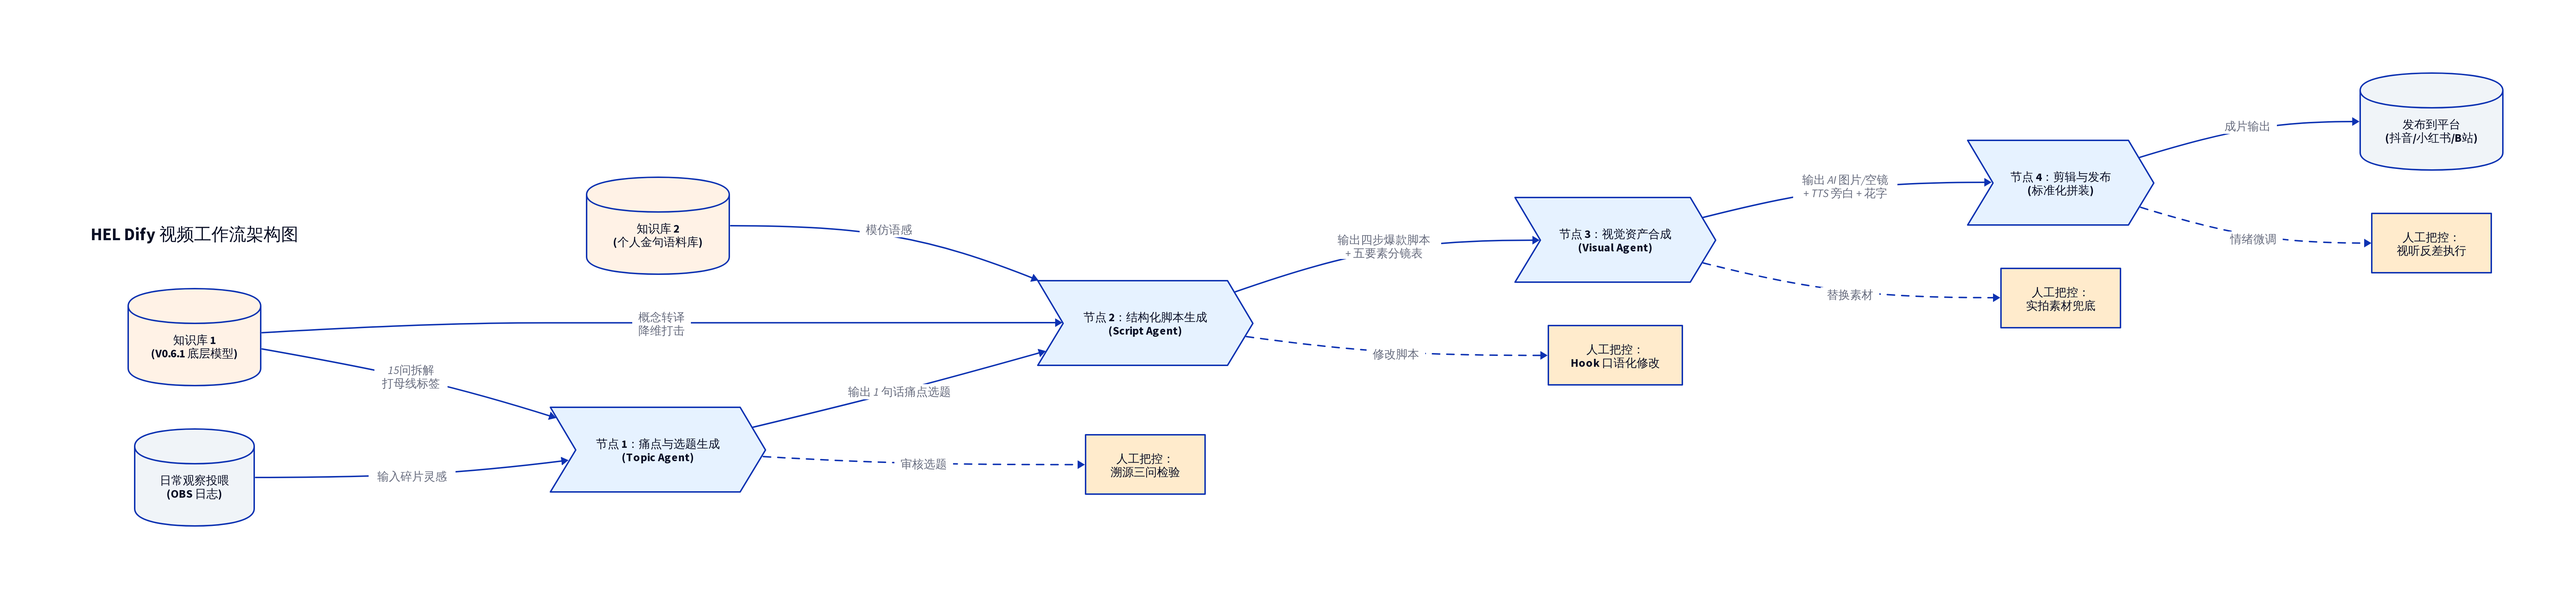
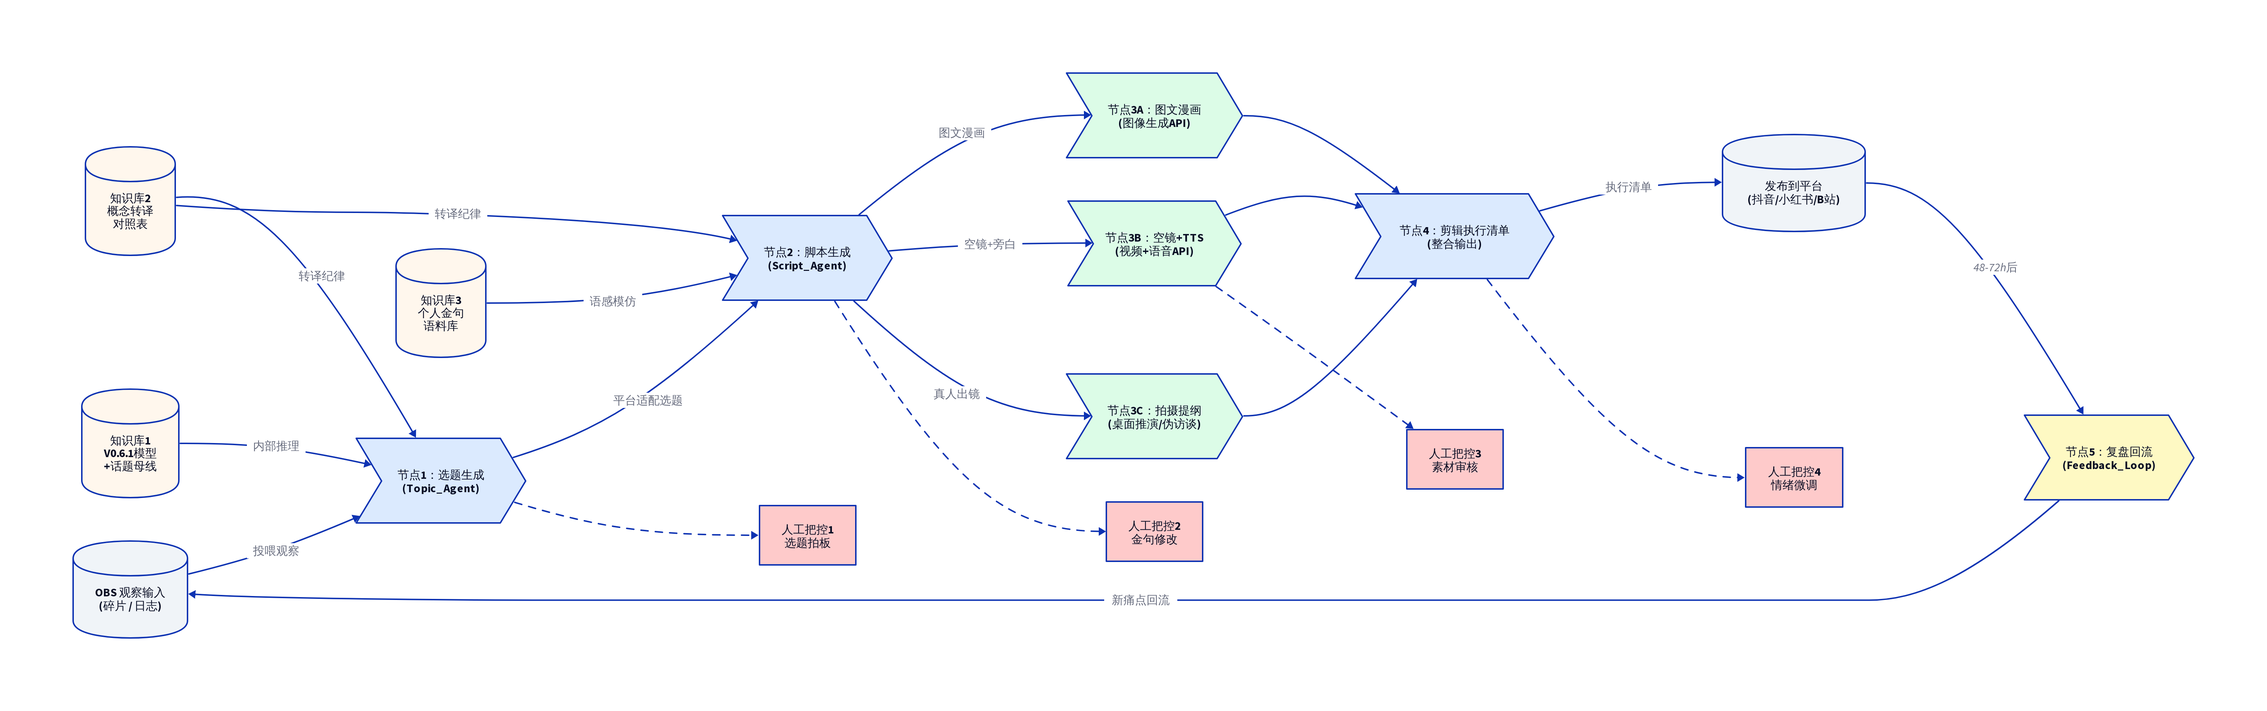
Update: Dify工作流实施指南 v2 - 修复5处设计缺陷
修复内容：
1. 节点1提示词：明确V0.6.1只用于内部推理，输出必须是大众语言（修复自相矛盾）
2. 节点1加入平台变量：选题从一开始就按平台适配包装（修复平台分发缺失）
3. 节点2提示词：嵌入完整的7条概念转译对照表（修复转译约束不足）
4. 节点3拆分为3条分支：图文漫画/情绪空镜+TTS/桌面推演伪访谈（修复分支逻辑不完整）
5. 新增节点5：发布复盘与痛点回流，形成完整生长闭环（修复缺失复盘环节）
6. 更新架构流程图：加入节点5和3条内容形式分支

diff --git a/05-内容生产体系/10-Dify工作流搭建实施指南.md b/05-内容生产体系/10-Dify工作流搭建实施指南.md
@@ -1,84 +1,246 @@
-# Dify 视频工作流：框架设计与详细搭建说明
+# Dify 视频工作流：框架设计与详细搭建说明 (v2)
 
 本指南旨在将 HEL（人与环境实验室）的四阶段视频生产流水线，在 Dify 平台上落地为可执行的自动化工作流。
 
-## 一、 为什么选择 Dify？
+> **核心纪律（贯穿全文）**：V0.6.1 底层模型是创作者的"内功"，只用于 AI 的内部推理，**绝不直接出现在任何对外输出中**。所有面向用户的文案，必须经过"概念转译"，说人话，不说术语。
 
-正如《06-视频生产流水线与工具选型》中所述，HEL 的核心壁垒是**“逻辑编排”**和**“私有化知识库沉淀”**。
-*   **严密的逻辑控制**：我们需要 AI 严格按照“找痛点 $\rightarrow$ 写脚本 $\rightarrow$ 做画面”的步骤执行，并在脚本环节严格遵循“四步结构”和“五要素分镜”。Dify 的 Workflow 节点编排能力远强于普通对话机器人。
-*   **深度知识库反哺**：我们需要将 V0.6.1 底层模型和不断积累的“个人金句语料库”作为 AI 的思考基底。Dify 的 RAG（检索增强生成）能力能更精准地挂载和检索这些长文本。
+---
 
-## 二、 工作流架构流程图
+## 一、为什么选择 Dify？
 
-以下是我们在 Dify 中要搭建的端到端工作流架构图。
+HEL 的核心壁垒是**"逻辑编排"**和**"私有化知识库沉淀"**。
 
-![Dify 视频工作流架构图](dify_flow.png)
+- **严密的逻辑控制**：内容必须严格按照"找痛点 → 写脚本 → 做画面 → 发布复盘"的步骤执行，并在脚本环节严格遵循"四步结构"和"五要素分镜"。Dify 的 Workflow 节点编排能力能做到这一点。
+- **深度知识库反哺**：V0.6.1 底层模型、八条话题母线、个人金句语料库，都需要作为 AI 的推理基底。Dify 的 RAG 能力能精准挂载和检索这些长文本，且数据完全私有化。
 
-*(注：该图展示了从 OBS 日志输入到成片输出的全流程，以及底层模型和语料库的挂载位置，并标明了必须由人工介入的四个关键把控点。)*
+---
 
-## 三、 Dify 工作流详细搭建步骤
+## 二、工作流整体架构
 
-在 Dify 中创建一个新的 **“工作流 (Workflow)”** 应用，按照以下步骤搭建节点：
+整个工作流分为 **6 个节点**，形成从"碎片输入"到"数据回流"的完整闭环：
+
+```
+[碎片输入] → 节点1(选题) → 节点2(脚本) → 节点3(资产) → 节点4(执行清单) → [发布] → 节点5(复盘回流)
+                ↑                                                                        |
+                └──────────────── 新痛点回流，开启下一轮循环 ──────────────────────────────┘
+```
+
+**知识库挂载关系**：
+
+| 知识库 | 挂载节点 | 用途 |
+| :--- | :--- | :--- |
+| V0.6.1 底层模型 + 八条话题母线 | 节点 1 | 内部推理：拆解痛点、打母线标签 |
+| 概念转译对照表 | 节点 1、节点 2 | 确保输出全程不出现学术术语 |
+| 个人金句语料库 | 节点 2 | 模仿创作者的个人语感 |
+
+---
+
+## 三、详细节点搭建步骤
 
 ### 节点 0：开始节点 (Start)
-*   **输入变量**：
-    *   `obs_input` (String/Paragraph)：用户输入的日常观察碎片或 OBS 日志。
-    *   `target_platform` (Select)：目标发布平台（抖音/小红书/B站），用于后续调整话术风格。
 
-### 节点 1：痛点与选题生成 (LLM 节点)
-*   **节点名称**：`Topic_Agent`
-*   **挂载知识库**：选择包含 `V0.6.1底层模型` 和 `八条话题母线` 的知识库。
-*   **系统提示词 (System Prompt)**：
-    ```text
-    你是一个深谙社会心理学与内容传播的选题策划专家。
-    请基于用户的观察输入，结合知识库中的 V0.6.1 模型，提取用户的核心痛点。
-    运用公式：需求 × 行为 × 环境 × 系统 = 原创选题。
-    输出要求：
-    1. 分析该现象属于哪一条话题母线。
-    2. 输出一个直击痛点、大白话的“一句话选题”。
-    3. 必须通过“溯源三问”检验（是否真实？是否普遍？是否触及系统？）。
-    ```
-*   **用户输入**：`{{obs_input}}`
-*   **人工交接点 1**：工作流在此处可设置暂停（或在外部系统中审核），由人类创作者拍板决定是否采用该选题。
+**输入变量**：
 
-### 节点 2：结构化脚本生成 (LLM 节点)
-*   **节点名称**：`Script_Agent`
-*   **依赖前置节点**：接收 `Topic_Agent` 的输出选题。
-*   **挂载知识库**：选择包含 `个人金句语料库` 的知识库（用于模仿语感）。
-*   **系统提示词 (System Prompt)**：
-    ```text
-    你是一个顶级的短视频编导。请根据传入的选题，撰写一个 60-120 秒的视频脚本。
-    必须严格遵循以下结构：
-    1. Hook（前3秒）：大白话，直击场景痛点。
-    2. 共鸣（5-15秒）：描述具体场景，放大情绪。
-    3. 降维打击：引入底层逻辑，但必须进行“概念转译”，不说术语，说金句。
-    4. 升华：给出情绪抚慰或建议。
-    
-    请参考目标平台 {{target_platform}} 的调性调整文风。
-    最终必须以“五要素分镜表”格式输出（序号、景别、画面描述、旁白、音效/花字）。
-    ```
-*   **人工交接点 2**：人类创作者必须在此处修改 Hook，使其更口语化，并调整金句。
+| 变量名 | 类型 | 说明 |
+| :--- | :--- | :--- |
+| `obs_input` | Paragraph | 日常观察碎片或 OBS 日志原文 |
+| `target_platform` | Select | 目标平台：`抖音` / `小红书` / `B站` / `视频号` |
+| `content_format` | Select | 内容形式：`图文漫画` / `情绪空镜+旁白` / `桌面推演` / `伪访谈` |
 
-### 节点 3：视觉资产准备 (工具调用节点组)
-*   **节点名称**：`Visual_Assets_Generation`
-*   **逻辑说明**：利用 Dify 的工具/插件能力（或通过 HTTP 请求调用外部 API）。
-*   **分支 1 (图像生成)**：调用如 DALL-E 3 或 Midjourney API，传入 `Script_Agent` 输出的画面描述，生成所需的背景图或空镜。
-*   **分支 2 (TTS 语音)**：调用高质量 TTS API（如火山引擎），传入脚本中的旁白文本，生成音频文件。
-*   **人工交接点 3**：人类创作者检查生成的素材，必要时用自己的实拍素材进行兜底替换。
+> `target_platform` 和 `content_format` 从节点 1 就开始影响输出，而非只在脚本阶段才生效。
 
-### 节点 4：标准化拼装与输出 (代码/文本处理节点)
-*   **节点名称**：`Final_Assembly_Instructions`
-*   **逻辑说明**：由于 Dify 无法直接进行视频剪辑，此节点用于输出给剪辑师（或人类创作者自己）的“最终执行清单”。
-*   **输出内容**：
-    *   完整的最终版旁白文本。
-    *   提取出的核心“花字”清单。
-    *   剪辑时的“视听反差”执行提示（如：“在第 15 秒转折处，要求画面变亮，BGM 切换”）。
+---
 
-### 节点 5：结束节点 (End)
-*   **输出变量**：将上述节点 4 的执行清单以及生成的素材链接作为最终输出返回给用户。
+### 节点 1：痛点与选题生成 (Topic_Agent)
 
-## 四、 实施建议
+**挂载知识库**：V0.6.1 底层模型、八条话题母线、概念转译对照表
 
-1.  **先跑通 MVP**：不要一开始就追求全自动化。可以先只在 Dify 中搭建“节点 1”和“节点 2”，手动复制脚本去剪映里制作，验证逻辑通顺后再逐步接入 API。
-2.  **知识库的持续投喂**：Dify 工作流的灵魂在于知识库。您平时随手写的感悟、爆款文案，都要不断追加到 `个人金句语料库` 中，让 AI 的“文笔”越来越像您。
-3.  **守住人工底线**：牢记“人管灵魂与决策、AI 管效率与执行”。AI 写的 Hook 如果不够“扎心”，您必须亲自下场改，这是机器无法替代的“人味”。
+**系统提示词**：
+
+```
+你是 HEL 内容体系的选题策划专家。你的任务是把用户的真实观察，转化为适合在 {{target_platform}} 上发布的爆款选题。
+
+【内部推理规则（不对外输出）】
+1. 用 V0.6.1 模型的 15 个问题在内部拆解观察输入，识别背后的核心机制。
+2. 判断该现象属于八条话题母线中的哪一条，以及对应的哪个"生活痛点专栏"。
+3. 用"溯源三问"验证选题的原创性：
+   ① 这是真实观察到的吗？
+   ② 这是普遍存在的吗？
+   ③ 这触及了某个系统性规律吗？
+   三问全部通过才能输出。
+
+【概念转译纪律（强制执行）】
+输出中严禁出现以下词汇：熵增、边界化、节能化、可预测化、替代性安放系统、平台反噬、认知卸载、命局条件、尺度层。
+必须将这些概念转译为对应的大众语言（参考知识库中的概念转译对照表）。
+
+【平台适配要求】
+- 抖音/视频号：选题要有强冲突感，能在前3秒制造情绪张力。
+- 小红书：选题要有具体的解决方向，让人看到就想点进来找答案。
+- B站：选题可以更深度，适合"为什么系列"或"底层逻辑拆解"。
+
+【输出格式】
+1. 所属母线（内部标签）：xxx母线 → 【xxx专栏】
+2. 核心机制（内部用，一句话）：（用底层模型语言描述，不对外）
+3. {{target_platform}} 版选题（大白话，直击痛点）：（最终对外的选题）
+4. 溯源三问验证：✅ 真实 / ✅ 普遍 / ✅ 触及系统
+
+输入的观察：{{obs_input}}
+```
+
+**人工交接点 1（必须）**：工作流在此暂停，由创作者审核选题，确认"溯源三问"是否真实成立，拍板决定是否采用。**AI 生成的选题只是候选，最终决策权在人。**
+
+---
+
+### 节点 2：结构化脚本生成 (Script_Agent)
+
+**依赖前置节点**：接收节点 1 输出的"对外选题"和"所属母线"。
+
+**挂载知识库**：概念转译对照表、个人金句语料库
+
+**系统提示词**：
+
+```
+你是 HEL 内容体系的短视频编导。请根据传入的选题，为 {{target_platform}} 平台撰写一个 60-120 秒的视频脚本。
+
+【平台调性要求】
+- 抖音/视频号：放大情绪，制造冲突，给出现成答案，节奏快，前3秒必须有强冲突。
+- 小红书：提供具体解决方案，强调审美与生活方式，语气像朋友聊天。
+- B站：深度解析，讲透底层逻辑，可以稍长，但逻辑链条必须严密。
+
+【脚本四步结构（必须严格遵循）】
+1. Hook（前3秒）：大白话，直击场景，必须口语化，让人第一秒就觉得"说的就是我"。
+2. 共鸣（5-15秒）：描述具体生活场景，放大情绪，让用户觉得"你懂我"。
+3. 降维打击：引入底层逻辑，但必须全程用大众语言，参考以下转译对照表（严格执行）：
+   - 熵增/密度压力 → "越住越乱、被掏空、被挤压"
+   - 边界化/边界失效 → "私人空间、不被打扰、没有个人生活"
+   - 节能化/秩序化 → "顺手、不费脑子、减少内耗"
+   - 可预测化/预测失效 → "踩坑、翻车、心里没底"
+   - 替代性安放系统 → "精神寄托、搭子、找个乐子"
+   - 平台反噬/认知卸载 → "被算法裹挟、被工具绑架"
+   - 命局条件/尺度层 → "原生家庭、打工人的命、大环境的锅"
+4. 升华/行动号召：给出情绪抚慰或具体建议，结尾引导关注或互动。
+
+【输出格式】
+以"五要素分镜表"格式输出，每行包含：
+序号 | 景别 | 画面描述 | 旁白文本 | 音效/花字建议
+
+选题：{{topic_output}}
+所属专栏：{{topic_line}}
+```
+
+**人工交接点 2（必须）**：创作者重点检查 Hook 是否够口语化、金句是否有个人风格。**AI 的初稿只是框架，金句必须由人修改注入个人语感。**
+
+---
+
+### 节点 3：视觉资产准备 (Visual_Assets_Generation)
+
+本节点根据 `content_format` 变量，进入三条不同的分支逻辑：
+
+#### 分支 A：图文漫画（适用于小红书）
+
+- **AI 动作**：根据分镜表中的画面描述，生成治愈系漫画提示词（参照《04-治愈系漫画风格模板》中的固定提示词基底），调用图像生成 API（DALL-E 3 / Midjourney）生成图片。
+- **输出**：5-7 张 3:4 比例图片（按《09-动态视觉排版》中的版式模块组合）。
+- **人工把控**：审核画面是否符合治愈系风格，人物形象是否一致，文字是否清晰。
+
+#### 分支 B：情绪空镜 + TTS 旁白（适用于抖音/视频号/B站）
+
+- **AI 动作 1（视频素材）**：根据分镜表中的空镜描述，生成 AI 视频提示词，调用可灵等视频生成 API 生成空镜片段。
+- **AI 动作 2（TTS 语音）**：提取分镜表中的旁白文本，调用火山引擎 TTS API，生成高质量旁白音频。
+- **AI 动作 3（花字清单）**：从旁白中提取核心金句，输出花字清单（供剪辑时叠加字幕）。
+- **人工把控**：审核空镜画面是否符合情绪基调（痛点段冷色调，治愈段暖色调）；如 AI 生成画面失真，用实拍素材替换。
+
+#### 分支 C：桌面推演 / 伪访谈（需真人出镜）
+
+- **AI 动作**：根据脚本生成"拍摄提纲"，包含：分镜顺序、每段时长建议、手部动作说明（桌面推演）或视线方向说明（伪访谈）、BGM 情绪建议。
+- **输出**：一份可直接用于拍摄的"拍摄执行手册"。
+- **人工把控**：此分支 AI 只负责规划，拍摄和出镜全部由创作者完成。
+
+**人工交接点 3（必须）**：检查生成的视觉资产，确认画面不失真、不过度"AI 感"，必要时用实拍素材兜底。
+
+---
+
+### 节点 4：剪辑执行清单输出 (Final_Assembly_Instructions)
+
+Dify 无法直接剪辑视频，此节点将前序所有成果整合为一份可直接操作的"剪辑执行清单"。
+
+**输出内容**：
+
+```
+【剪辑执行清单】
+
+一、完整旁白文本（最终版）
+（逐句列出，含标点，方便对口型）
+
+二、花字清单
+（列出需要叠加的核心金句及建议出现时间点）
+
+三、视听反差执行指令
+- 第 X 秒（痛点转折处）：画面切暗色调 + BGM 切换为压迫感节奏
+- 第 X 秒（降维打击处）：画面切暖色调 + BGM 切换为舒缓钢琴
+- 第 X 秒（升华处）：画面拉远景 + 提示音效
+
+四、素材清单
+（列出所有已生成的图片/视频/音频文件链接或路径）
+
+五、发布建议
+- 首发平台：{{target_platform}}
+- 封面文字建议：（提取 Hook 的核心一句话）
+- 互动引导语：（建议在评论区置顶的问题，用于收集新痛点）
+```
+
+---
+
+### 节点 5：发布复盘与痛点回流 (Feedback_Loop)
+
+> **这是整个工作流最核心的环节，也是 HEL 内容体系"护城河"的来源。** 没有这个闭环，工作流只是内容生产机器；有了这个闭环，系统才能真正"生长"。
+
+**触发时机**：视频发布 48-72 小时后，手动触发此节点。
+
+**输入变量**：
+- `comment_highlights`：从评论区手动摘录的高频反馈（3-5 条代表性评论）。
+- `data_metrics`：完播率、互动率、收藏率的实际数据。
+
+**系统提示词**：
+
+```
+你是 HEL 内容体系的数据分析师。请根据以下数据，诊断本次内容的效果，并提取可用于下一轮选题的新痛点。
+
+【数据诊断规则】
+- 完播率低（< 40%）→ 诊断：前3秒 Hook 没抓准，或概念转译不到位。建议：重写 Hook，进一步口语化。
+- 互动率高（点赞+评论 > 5%）→ 诊断：情绪共鸣到位，转译概念成功。建议：将本期核心概念做成系列。
+- 收藏率高（> 3%）→ 诊断：提供了实用价值。建议：强化干货解决方案类内容比重。
+- 评论出现新抱怨/新场景 → 直接提取为新的 OBS 观察输入，进入下一轮循环。
+
+【输出格式】
+1. 本期诊断：（一句话总结效果）
+2. 改进建议：（针对数据弱项的具体调整方向）
+3. 新痛点提取：（从评论中提炼 1-3 个可直接投喂节点 1 的新观察）
+4. 是否建议做成系列：是 / 否，理由：
+
+评论摘录：{{comment_highlights}}
+数据指标：{{data_metrics}}
+```
+
+**人工动作**：将"新痛点提取"的结果记录到 `03-观察日志` 中，作为下一轮内容的弹药，开启新循环。
+
+---
+
+## 四、实施路线图
+
+| 阶段 | 搭建内容 | 目标 |
+| :--- | :--- | :--- |
+| **MVP 阶段** | 只搭节点 1 + 节点 2 | 跑通"输入观察 → 输出脚本"的核心逻辑，手动去剪映制作 |
+| **半自动阶段** | 加入节点 3（分支 B 的 TTS 部分）+ 节点 4 | 实现旁白自动生成，减少重复劳动 |
+| **全流程阶段** | 加入节点 5 + 图像/视频 API 接入 | 实现从输入到复盘的完整闭环 |
+
+---
+
+## 五、人机分工总表
+
+| 节点 | 人的动作（灵魂与决策） | AI 的动作（效率与执行） | 关键把控点 |
+| :--- | :--- | :--- | :--- |
+| 节点 1 | 提供真实观察碎片；拍板最终选题 | 用 V0.6.1 内部推理，输出平台适配选题 | 选题必须由人拍板，AI 不能凭空捏造 |
+| 节点 2 | 修改 Hook 使其口语化；注入个人金句语感 | 套用四步结构输出分镜初稿 | 金句必须有人的风格，拒绝学术说教 |
+| 节点 3 | 审核视听资产；提供实拍素材兜底 | 生成图片/空镜/TTS/拍摄提纲（按内容形式分支） | 视觉呈现必须真实，不能过度"AI 感" |
+| 节点 4 | 按清单在剪辑软件中完成情绪微调 | 整合输出剪辑执行清单 | 视听反差时机必须精准 |
+| 节点 5 | 摘录评论、输入数据、将新痛点存入日志 | 诊断数据、提取新痛点 | 新痛点必须来自真实评论，不能 AI 捏造 |
